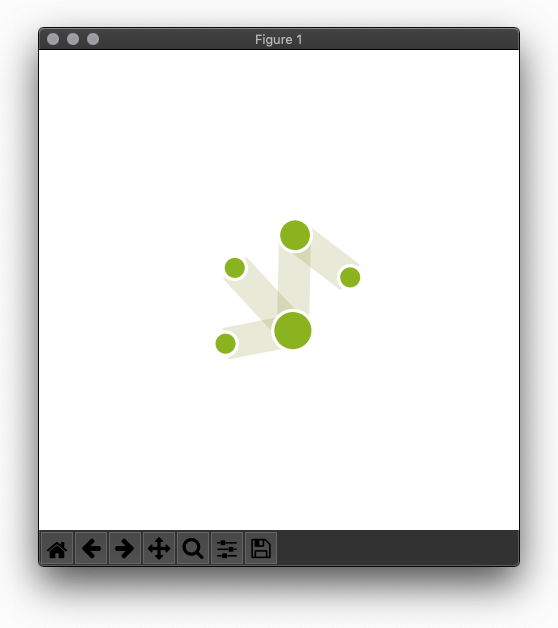
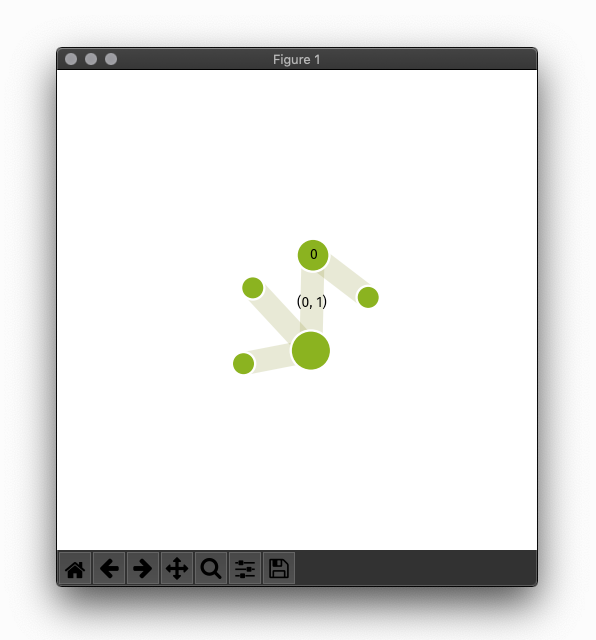
added label functions, close #29

Changed region(s): [[0.0305, 0.0303, 0.9749, 0.9682], [0.3656, 0.3328, 0.6703, 0.6051]]

diff --git a/netwulf/tools.py b/netwulf/tools.py
@@ -9,6 +9,142 @@ import matplotlib as mpl
 import matplotlib.pyplot as pl
 from matplotlib.collections import LineCollection, EllipseCollection
 
+def node_pos(network_properties,node_id):
+    """
+    Get the node's position in matplotlib data coordinates.
+    
+    Parameters
+    ----------
+    network_properties : dict
+        The network properties which are returned from the
+        interactive visualization.
+
+    Returns
+    -------
+    x : float
+        The x-position in matplotlib data coordinates
+    y : float
+        The y-position in matplotlib data coordinates
+
+    Example
+    -------
+        >>> props, _ = visualize(G)
+        >>> node_pos(props, 0)
+    """
+
+    height = network_properties['ylim'][1] - network_properties['ylim'][0]
+    node = network_properties['nodes'][node_id]
+
+    return node['x_canvas'], height - node['y_canvas']
+
+def add_node_label(ax,
+                   network_properties,
+                   node_id,
+                   label=None,
+                   dx=0,
+                   dy=0,
+                   ha='center',
+                   va='center',
+                   **kwargs):
+    """
+    Add a label to a node in the drawn matplotlib axis
+
+    Parameters
+    ----------
+    ax : matplotlib.Axis
+        The Axis object which has been used to draw the network
+    network_properties : dict
+        The network properties which are returned from the
+        interactive visualization.
+    node_id : str or int
+        The focal node's id in the `network_properties` dict
+    label : str, default : None
+        The text to write at the node's position
+        If `None`, the value of `node_id` will be put there.
+    dx : float, default : 0.0
+        Label offset in x-direction
+    dy : float, default : 0.0
+        Label offset in y-direction
+    ha : str, default : 'center'
+        Horizontal anchor orientation of the text
+    va : str, default : 'center'
+        Vertical anchor orientation of the text
+    **kwargs : dict
+        Additional styling arguments forwarded to Axis.text
+
+
+    Example
+    -------
+        >>> netw, _ = netwulf.visualize(G)
+        >>> fig, ax = netwulf.draw_netwulf(netw)
+        >>> netwulf.add_node_label(ax,netw,0)
+    """
+
+    pos = node_pos(network_properties, node_id)
+
+    if label is None:
+        label = str(node_id)
+    
+    ax.text(pos[0]+dx,pos[1]+dy,label,ha=ha,va=va,**kwargs)
+
+def add_edge_label(ax,
+                   network_properties,
+                   edge,
+                   label=None,
+                   dscale=0.5,
+                   dx=0,
+                   dy=0,
+                   ha='center',
+                   va='center',
+                   **kwargs):
+    """
+    Add a label to an edge in the drawn matplotlib axis
+
+    Parameters
+    ----------
+    ax : matplotlib.Axis
+        The Axis object which has been used to draw the network
+    edge : 2-tuple of str or int
+        The edge's node ids
+    network_properties : dict
+        The network properties which are returned from the
+        interactive visualization.
+    label : str, default : None
+        The text to write at the node's position
+        If `None`, the tuple of node ids in `edge` will be put there.
+    dscale : float, default : 0.5
+        At which position between the two nodes to put the label
+        (``dscale = 0.0`` refers to the position of node ``edge[0]``
+        and ``dscale = 1.0`` refers to the position of node ``edge[1]``,
+        so use any number between 0.0 and 1.0).
+    dx : float, default : 0.0
+        Additional label offset in x-direction
+    dy : float, default : 0.0
+        Additional label offset in y-direction
+    ha : str, default : 'center'
+        Horizontal anchor orientation of the text
+    va : str, default : 'center'
+        Vertical anchor orientation of the text
+    **kwargs : dict
+        Additional styling arguments forwarded to Axis.text
+
+
+    Example
+    -------
+        >>> netw, _ = netwulf.visualize(G)
+        >>> fig, ax = netwulf.draw_netwulf(netw)
+        >>> netwulf.add_node_label(ax,netw,0)
+    """
+
+    v0 = np.array(node_pos(network_properties, edge[0]))
+    v1 = np.array(node_pos(network_properties, edge[1]))
+    e = (v1-v0)
+
+    if label is None:
+        label = str("("+str(edge[0])+", "+str(edge[1])+")")
+    
+    pos = v0 + dscale * e 
+    ax.text(pos[0]+dx,pos[1]+dy,label,ha=ha,va=va,**kwargs)
 
 def bind_properties_to_network(network,
                                network_properties,
@@ -41,8 +177,8 @@ def bind_properties_to_network(network,
 
     Example
     -------
-        >>> props, _ = visualize(G)
-        >>> bind_properties_to_network(G, props)
+        >>> props, _ = netwulf.visualize(G)
+        >>> netwulf.bind_properties_to_network(G, props)
     """
     # Add individial node attributes
     if bind_node_positions:
@@ -119,15 +255,10 @@ def draw_netwulf(network_properties, fig=None, ax=None, figsize=None):
     """
     Redraw the visualization using matplotlib. Creates
     figure and axes if None provided.
-    In order to add labels, do for instance
-
-    .. code:: python
-
-        ax.text(
-                network_properties['nodes'][0]['x'],
-                network_properties['nodes'][0]['y'],
-                network_properties['nodes'][0]['id']
-               )
+    In order to add labels, check out 
+    :mod:`netwulf.tools.add_node_label`
+    and
+    :mod:`netwulf.tools.add_edge_label`
 
     Parameters
     ----------

diff --git a/netwulf/tests/test_all.py b/netwulf/tests/test_all.py
@@ -4,7 +4,7 @@ import numpy as np
 import matplotlib.pyplot as pl
 import networkx as nx
 
-from netwulf.tools import bind_properties_to_network, get_filtered_network, draw_netwulf
+from netwulf.tools import bind_properties_to_network, get_filtered_network, draw_netwulf, node_pos, add_node_label, add_edge_label
 from netwulf import visualize
 
 def _get_test_network():
@@ -137,7 +137,10 @@ class Test(unittest.TestCase):
             }
 
 
-        draw_netwulf(stylized_network)
+        fig, ax = draw_netwulf(stylized_network)
+
+        add_node_label(ax, stylized_network, 0)
+        add_edge_label(ax, stylized_network, (0,1))
         pl.show(block=False)
         pl.pause(5)
         pl.close()

diff --git a/netwulf/metadata.py b/netwulf/metadata.py
@@ -3,7 +3,7 @@
 Contains a bunch of information about this package.
 """
 
-__version__ = "0.1.1"
+__version__ = "0.1.2"
 
 __author__ = "Ulf Aslak, Benjamin F. Maier"
 __copyright__ = "Copyright 2018-2019, Ulf Aslak, Benjamin F. Maier"

diff --git a/CHANGELOG.md b/CHANGELOG.md
@@ -7,6 +7,16 @@ and this project adheres to [Semantic Versioning](https://semver.org/spec/v2.0.0
 
 ## [Unreleased]
 
+## [v0.1.2] - 2019-06-17
+### Added
+- function `netwulf.tools.node_pos` to get a node's position on the matplotlib axis
+- function `netwulf.tools.add_node_label` to add a node label to the matplotlib axis
+- function `netwulf.tools.add_edge_label` to add an edge label to the matplotlib axis
+
+### Changed
+- The corresponding docs for node labels was changed to use the new functions.
+- The matplotlib test now contains additional tests for the edge label and node label positioning
+
 ## [v0.1.1] - 2019-05-24
 ### Changed
 - some default settings
@@ -29,7 +39,8 @@ and this project adheres to [Semantic Versioning](https://semver.org/spec/v2.0.0
 ### Changed
 - switched from usage of `os.path` to `pathlib` at the appropriate places
 
-[Unreleased]: https://github.com/benmaier/netwulf/compare/v0.1.1...HEAD
+[Unreleased]: https://github.com/benmaier/netwulf/compare/v0.1.2...HEAD
+[v0.1.1]: https://github.com/benmaier/netwulf/compare/v0.1.1...v0.1.2
 [v0.1.1]: https://github.com/benmaier/netwulf/compare/v0.1.0...v0.1.1
 [v0.1.0]: https://github.com/benmaier/netwulf/compare/v0.0.18...v0.1.0
 [v0.0.18]: https://github.com/benmaier/netwulf/compare/v0.0.17...v0.0.18

diff --git a/docs/python_api/drawing.rst b/docs/python_api/drawing.rst
@@ -27,14 +27,24 @@ the figure will be redrawn in matplotlib and opened.
 
     Reproduced figure
 
-In order to add labels, use ``matplotlib``'s text function.
-Node positions and labels are saved in the stylized network, so
-for the first node this might look like
+In order to add labels, use netwulf's functions 
+:mod:`netwulf.tools.add_edge_label` 
+or
+:mod:`netwulf.tools.add_node_label`.
 
 .. code:: python
 
-    ax.text(
-            network_properties['nodes'][0]['x'],
-            network_properties['nodes'][0]['y'],
-            network_properties['nodes'][0]['id']
-           )
+    add_edge_label(ax, stylized_network, (0,1))
+    add_node_label(ax, stylized_network, 9)
+
+This will add the node id and edge tuple to the figure. You can add an optional label string as 
+
+.. code:: python
+
+    add_edge_label(ax, stylized_network, (0,1), label='this edge')
+    add_node_label(ax, stylized_network, 9, label='this node')
+
+For additional styling options check out the respective functions docstrings at
+:mod:`netwulf.tools.add_edge_label` 
+or
+:mod:`netwulf.tools.add_node_label`.
